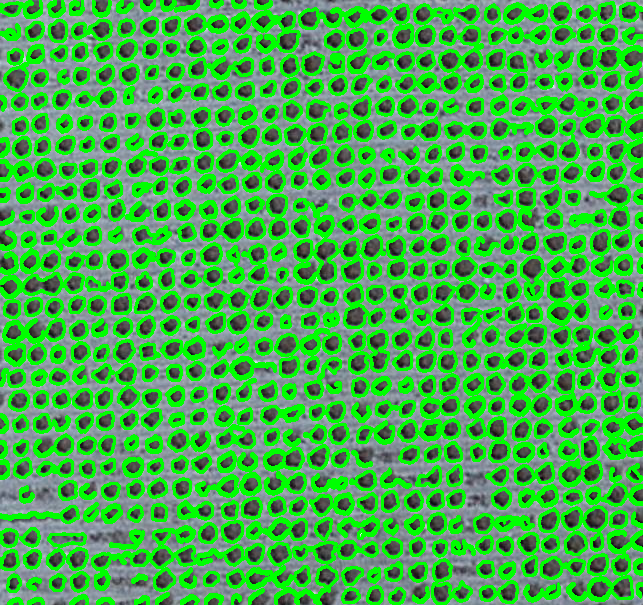
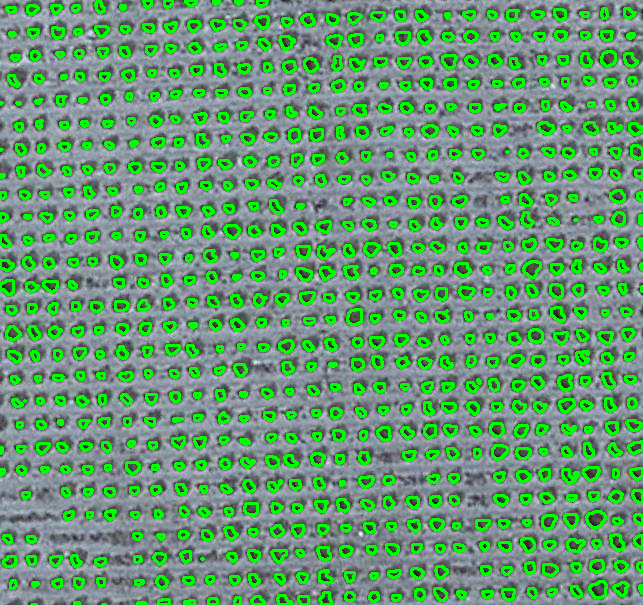
second try

diff --git a/main.py b/main.py
@@ -1,19 +1,57 @@
 import cv2
 import numpy as np
 import matplotlib.pyplot as plt
+"""
+Load Image
+image = cv2.imread('./resources/treesImage.jpeg')
+cv2.waitKey(0)
+# blur the image to smmooth out the edges a bit, also reduces a bit of noise
+# blurred = cv2.GaussianBlur(image, (5, 5), 0)
+# Grayscale
+gray = cv2.cvtColor(image, cv2.COLOR_BGR2GRAY)
+# apply thresholding to conver the image to binary format
+# after this operation all the pixels below 200 value will be 0...
+# and all th pixels above 200 will be 255
+ret, gray = cv2.threshold(gray, 60, 255, cv2.CHAIN_APPROX_NONE)
+cv2.imwrite('./resources/treesImageGray.png', gray)
+kernel = np.ones((3, 3), 'uint8')
+dilated = cv2.dilate(gray, kernel, iterations=1)
+
+cv2.imwrite('./resources/treesImageDilate.png', dilated)
+kernel = cv2.getStructuringElement(cv2.MORPH_ELLIPSE, (3, 3))
+opening = cv2.morphologyEx(dilated, cv2.MORPH_OPEN, kernel)
+closing = cv2.morphologyEx(dilated, cv2.MORPH_CLOSE, kernel)
+cv2.imwrite('./resources/treesImageOpening.png', opening)
+cv2.imwrite('./resources/treesImageClosing.png', closing)
+(cnt, heirarchy) = cv2.findContours(
+    opening.copy(), cv2.RETR_EXTERNAL, cv2.CHAIN_APPROX_NONE)
+rgb = cv2.cvtColor(image, cv2.COLOR_BGR2RGB)
+cv2.drawContours(rgb, cnt, -1, (0, 255, 0), 2)
+cv2.imwrite('./resources/treesImageDrawContours.png', rgb)
+print('Nombre d\'arbres dans l\'image est : ', len(cnt))
+
+
+closing = cv2.morphologyEx(opening,cv2.MORPH_CLOSE,kernel)
+cv2.imwrite('./resources/treesImageClosing.png', closing)
+edged = cv2.Canny(opening, 70, 255)
+cv2.imwrite('./resources/treesImageCanny.png', edged)
+"""
 
 image = cv2.imread('./resources/treesImage.png')
-gray = cv2.cvtColor(image,cv2.COLOR_BGR2GRAY)
-cv2.imwrite('./resources/treesImageGray.png',gray)
-blur = cv2.GaussianBlur(gray ,(11,11),0)
-cv2.imwrite('./resources/treesImageBlur.png',blur)
-canny = cv2.Canny(blur,30,150,3)
-cv2.imwrite('./resources/treesImageCanny.png',canny)
-dilated = cv2.dilate(canny,(1,1),iterations=2)
-cv2.imwrite('./resources/treesImageDilate.png',dilated)
+gray = cv2.cvtColor(image, cv2.COLOR_BGR2GRAY)
+cv2.imwrite('./resources/treesImageGray.png', gray)
+blur = cv2.GaussianBlur(gray, (11, 11), 0)
+cv2.imwrite('./resources/treesImageBlur.png', blur)
+ret, gray = cv2.threshold(blur, 80, 255, cv2.CHAIN_APPROX_NONE)
+cv2.imwrite('./resources/treesImageBinary.png', gray)
 
-(cnt,heirarchy) = cv2.findContours(dilated.copy(),cv2.RETR_EXTERNAL,cv2.CHAIN_APPROX_NONE)
-rgb = cv2.cvtColor(image,cv2.COLOR_BGR2RGB)
-cv2.drawContours(rgb,cnt,-1,(0,255,0),2)
-cv2.imwrite('./resources/treesImageDrawContours.png',rgb)
-print('Nombre d\'arbres dans l\'image est : ',len(cnt))
+kernel = cv2.getStructuringElement(cv2.MORPH_ELLIPSE, (4, 4))
+closing = cv2.morphologyEx(gray, cv2.MORPH_CLOSE, kernel)
+cv2.imwrite('./resources/treesImageClosing.png', closing)
+
+(cnt, heirarchy) = cv2.findContours(
+    closing.copy(), cv2.RETR_EXTERNAL, cv2.CHAIN_APPROX_NONE)
+rgb = cv2.cvtColor(image, cv2.COLOR_BGR2RGB)
+cv2.drawContours(rgb, cnt, -1, (0, 255, 0), 2)
+cv2.imwrite('./resources/treesImageDrawContours.png', rgb)
+print('Nombre d\'arbres dans l\'image est : ', len(cnt))
